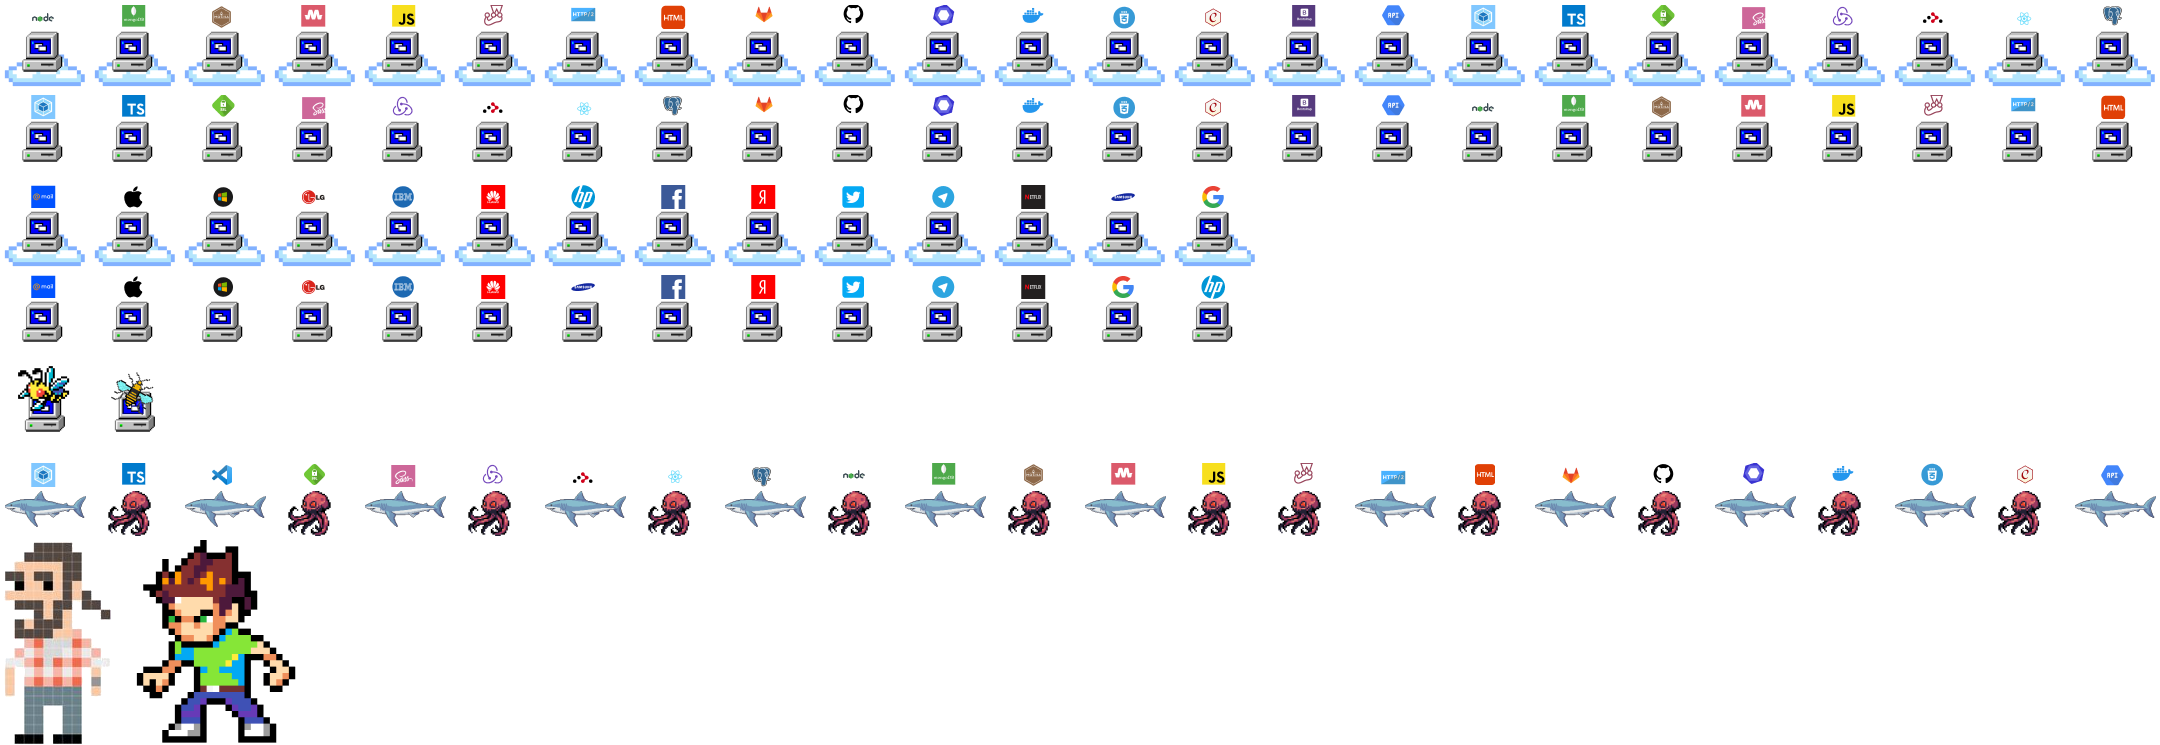
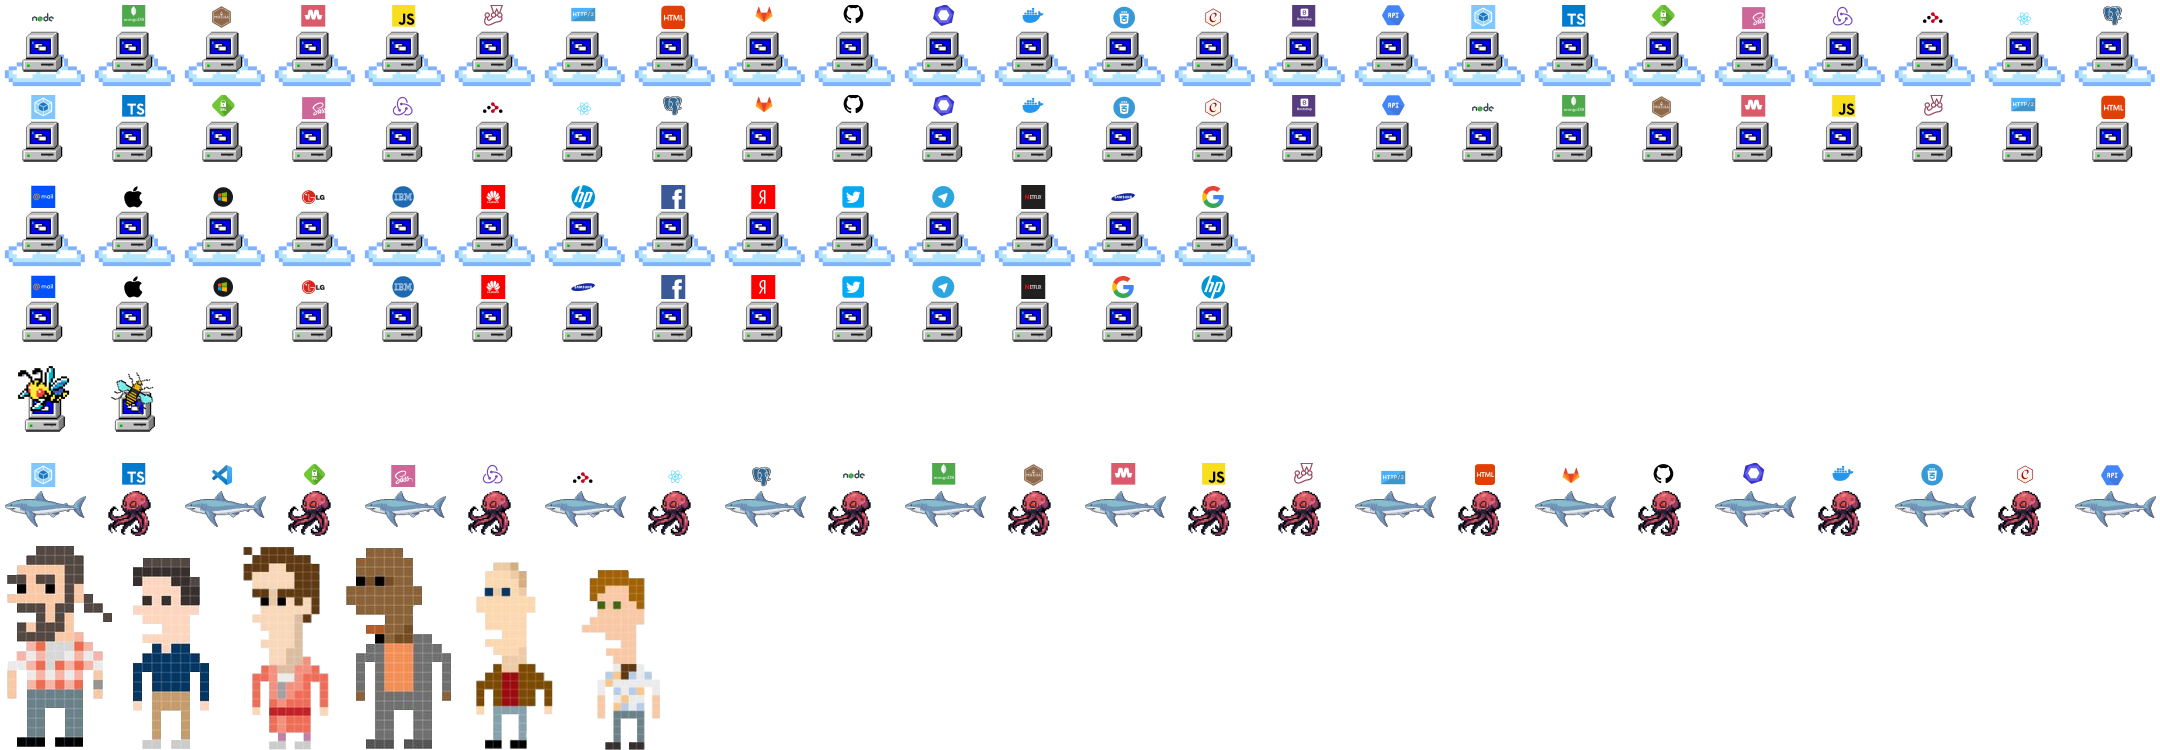
LP-65: Добавить в игру боссов (ревьюэров) (#76)
* LP-65 реализована базовая логика генерации боссов, добавлены текстуры боссов, переработаны условия прохождения уровня

diff --git a/client/core/components/GameCanvas/GamePainter.ts b/client/core/components/GameCanvas/GamePainter.ts
@@ -128,12 +128,15 @@ export class GamePainter {
         const basePosition = ctx.canvas.height - this.levels.options[this.levels.currentLevel].heroShiftY;
         const airUnits = basePosition - 80;
         const earthUnits = basePosition + 10;
+        const boss = basePosition - 125;
 
         switch (enemy.type) {
         case 'companyAir':
         case 'technologyAir':
         case 'water':
             return airUnits;
+        case 'reviewer':
+            return boss;
         default:
             return earthUnits;
         }
@@ -143,15 +146,29 @@ export class GamePainter {
         ctx,
         frameCount,
     }: DrawCanvasProps) {
-        const levelEnemies = this.levels.options[this.levels.currentLevel].enemies;
+        if (frameCount % this.enemies.frequency < this.enemies.frequency - 1) return;
+
+        const lvl = this.levels.options[this.levels.currentLevel];
+
+        const lvlEnemies = lvl.enemies;
         const enemiesTypes = this.enemies.types;
-        const randomEnemyType = levelEnemies[getRandomIntInclusive(0, levelEnemies.length - 1)];
-        const calcEnemy = enemiesTypes[randomEnemyType];
+        const enemyTypeBoss = 6;
+        let isNeedToDrawBoss = false;
+
+        if ((calcScore(this.levels.timer) >= lvl.duration) && !lvl.isBossReached) {
+            lvl.isBossReached = true;
+            isNeedToDrawBoss = true;
+        }
+
+        const randomEnemyType = lvlEnemies[getRandomIntInclusive(0, lvlEnemies.length - 1)];
+        const calcEnemy = enemiesTypes[
+            isNeedToDrawBoss
+                ? enemyTypeBoss
+                : randomEnemyType
+        ];
         const randomEnemyNumber = getRandomIntInclusive(
             1, calcEnemy.sWidth / calcEnemy.unitWidth,
         );
-
-        if (frameCount % this.enemies.frequency < this.enemies.frequency - 1) return;
 
         this.enemies.army.push({
             sx: (randomEnemyNumber - 1) * calcEnemy.unitWidth,
@@ -164,6 +181,7 @@ export class GamePainter {
             dy: this.calculateEnemiesDY(calcEnemy, ctx),
             dWidth: calcEnemy.unitWidth,
             dHeight: calcEnemy.unitHeight,
+            type: calcEnemy.type,
         });
 
         if (this.enemies.army.length > 20) {
@@ -188,9 +206,14 @@ export class GamePainter {
 
     checkEncounters(
         gameOverFn: FnActionRequiredProps<StoreGameProps>,
+        gamePauseFn: FnActionRequiredProps<StoreGameProps>,
     ) {
         const anemyExplosionShiftY = 30;
         const heroExplosionShiftY = 5;
+        const score = calcScore(this.levels.timer);
+
+        let levelComplite = false;
+        let isBossWin = false;
 
         this.enemies.army.forEach((enemy, i) => {
             /** Столкновение врагов со снарядами */
@@ -203,6 +226,10 @@ export class GamePainter {
                     });
                     this.enemies.army.splice(i, 1);
                     this.hero.shots.splice(j, 1);
+
+                    if (enemy.type === 'reviewer') {
+                        levelComplite = true;
+                    }
                 }
             });
 
@@ -216,13 +243,24 @@ export class GamePainter {
                 this.enemies.army.splice(i, 1);
 
                 this.hero.lifes--;
+
+                if (enemy.type === 'reviewer') {
+                    isBossWin = true;
+                }
             }
         });
 
-        if (this.hero.lifes === 0) {
+        if (this.hero.lifes === 0 || isBossWin) {
             gameOverFn({
                 isOver: true,
-                score: calcScore(this.levels.timer),
+                score,
+            });
+        }
+
+        if (levelComplite) {
+            gamePauseFn({
+                isPause: true,
+                score,
             });
         }
     }
@@ -298,6 +336,7 @@ export class GamePainter {
     }: DrawCanvasPartProps) {
         if (!resources) return;
 
+        const lvl = this.levels.options[this.levels.currentLevel];
         const { hero } = resources;
 
         if (keyPress === CONTROLS.jump) {
@@ -325,9 +364,9 @@ export class GamePainter {
         }
 
         this.hero.coord.dy = this.move.down.pressed
-            ? ctx.canvas.height - this.levels.options[this.levels.currentLevel].heroShiftY + 10
+            ? ctx.canvas.height - lvl.heroShiftY + 10
             : (
-                ctx.canvas.height - this.levels.options[this.levels.currentLevel].heroShiftY - this.move.jump.position
+                ctx.canvas.height - lvl.heroShiftY - this.move.jump.position
             );
 
         ctx.drawImage(
@@ -352,24 +391,18 @@ export class GamePainter {
 
             this.hero.ideas--;
         }
+
+        this.levels.timer++;
     }
 
     drawTimer(
         { ctx }: DrawCanvasPartProps,
-        gamePauseFn: FnActionRequiredProps<StoreGameProps>,
     ) {
         const score = calcScore(this.levels.timer);
         const center = ctx.canvas.width / 2 - ctx.measureText(String(score)).width / 2;
 
         ctx.font = '48px serif';
         ctx.fillText(String(score), center, 60);
-
-        if (score >= this.levels.options[this.levels.currentLevel].duration) {
-            gamePauseFn({
-                isPause: true,
-                score,
-            });
-        }
 
         this.levels.timer++;
     }
@@ -385,7 +418,7 @@ export class GamePainter {
 
         ctx.clearRect(0, 0, ctx.canvas.width, ctx.canvas.height);
 
-        this.checkEncounters(gameOverFn);
+        this.checkEncounters(gameOverFn, gamePauseFn);
         this.drawBg(options);
         this.drawHero(options);
         this.drawLifes(options);
@@ -395,6 +428,6 @@ export class GamePainter {
         this.restoreIdeas(options);
         this.generateEnemies(options);
         this.drawEnemies(options);
-        this.drawTimer(options, gamePauseFn);
+        this.drawTimer(options);
     }
 }

diff --git a/client/core/components/GameCanvas/GameCanvas.config.ts b/client/core/components/GameCanvas/GameCanvas.config.ts
@@ -57,6 +57,10 @@ export interface EnemyTypeProps {
     type: 'technology' | 'technologyAir' | 'company' | 'companyAir' | 'bug' | 'reviewer' | 'water'
 }
 
+export interface EnemiesArmyProps extends CanvasImageCoordinatesProps {
+    type: EnemyTypeProps['type']
+}
+
 export interface EnemiesProps {
     /** Скорость врагов */
     speed: number
@@ -68,7 +72,7 @@ export interface EnemiesProps {
     types: EnemyTypeProps[]
 
     /** Сгенерированные враги */
-    army: CanvasImageCoordinatesProps[]
+    army: EnemiesArmyProps[]
 }
 
 export interface HeroProps {
@@ -100,6 +104,9 @@ export interface LevelsOptionProps {
 
     /** Сдвиг по оси Y для героя */
     heroShiftY: number
+
+    /** Флаг достижения босса */
+    isBossReached: boolean
 }
 
 export interface LevelsProps {
@@ -181,7 +188,7 @@ export const GAME_OPTIONS: GameOptionProps = {
                 type: 'water', sx: 0, sy: 450, sWidth: 1260, sHeight: 540, unitWidth: 90, unitHeight: 90,
             },
             {
-                type: 'reviewer', sx: 0, sy: 540, sWidth: 111, sHeight: 655, unitWidth: 111, unitHeight: 205,
+                type: 'reviewer', sx: 0, sy: 540, sWidth: 684, sHeight: 655, unitWidth: 114, unitHeight: 210,
             },
         ],
         army: [],
@@ -211,6 +218,7 @@ export const GAME_OPTIONS: GameOptionProps = {
                 },
                 enemies: [1, 4, 5],
                 heroShiftY: 215,
+                isBossReached: false,
             },
             {
                 duration: 15,
@@ -219,6 +227,7 @@ export const GAME_OPTIONS: GameOptionProps = {
                 },
                 enemies: [1, 4, 5],
                 heroShiftY: 205,
+                isBossReached: false,
             },
             {
                 duration: 15,
@@ -227,6 +236,7 @@ export const GAME_OPTIONS: GameOptionProps = {
                 },
                 enemies: [0, 1, 4],
                 heroShiftY: 140,
+                isBossReached: false,
             },
             {
                 duration: 15,
@@ -235,6 +245,7 @@ export const GAME_OPTIONS: GameOptionProps = {
                 },
                 enemies: [0, 1, 4],
                 heroShiftY: 210,
+                isBossReached: false,
             },
             {
                 duration: 15,
@@ -243,6 +254,7 @@ export const GAME_OPTIONS: GameOptionProps = {
                 },
                 enemies: [0, 1, 4],
                 heroShiftY: 210,
+                isBossReached: false,
             },
             {
                 duration: 15,
@@ -251,30 +263,34 @@ export const GAME_OPTIONS: GameOptionProps = {
                 },
                 enemies: [0, 1, 4],
                 heroShiftY: 210,
+                isBossReached: false,
             },
             {
                 duration: 15,
                 bg: {
                     sx: 0, sy: 3600, sWidth: 2134, sHeight: 600,
                 },
-                enemies: [0, 1, 4],
+                enemies: [2, 3, 4],
                 heroShiftY: 150,
+                isBossReached: false,
             },
             {
                 duration: 15,
                 bg: {
                     sx: 0, sy: 4200, sWidth: 2134, sHeight: 600,
                 },
-                enemies: [0, 1, 4],
+                enemies: [2, 3, 4],
                 heroShiftY: 150,
+                isBossReached: false,
             },
             {
                 duration: 9999999,
                 bg: {
                     sx: 0, sy: 4800, sWidth: 2134, sHeight: 600,
                 },
-                enemies: [0, 1, 4],
+                enemies: [0, 1, 2, 3, 4],
                 heroShiftY: 210,
+                isBossReached: false,
             },
         ],
         timer: 0,
